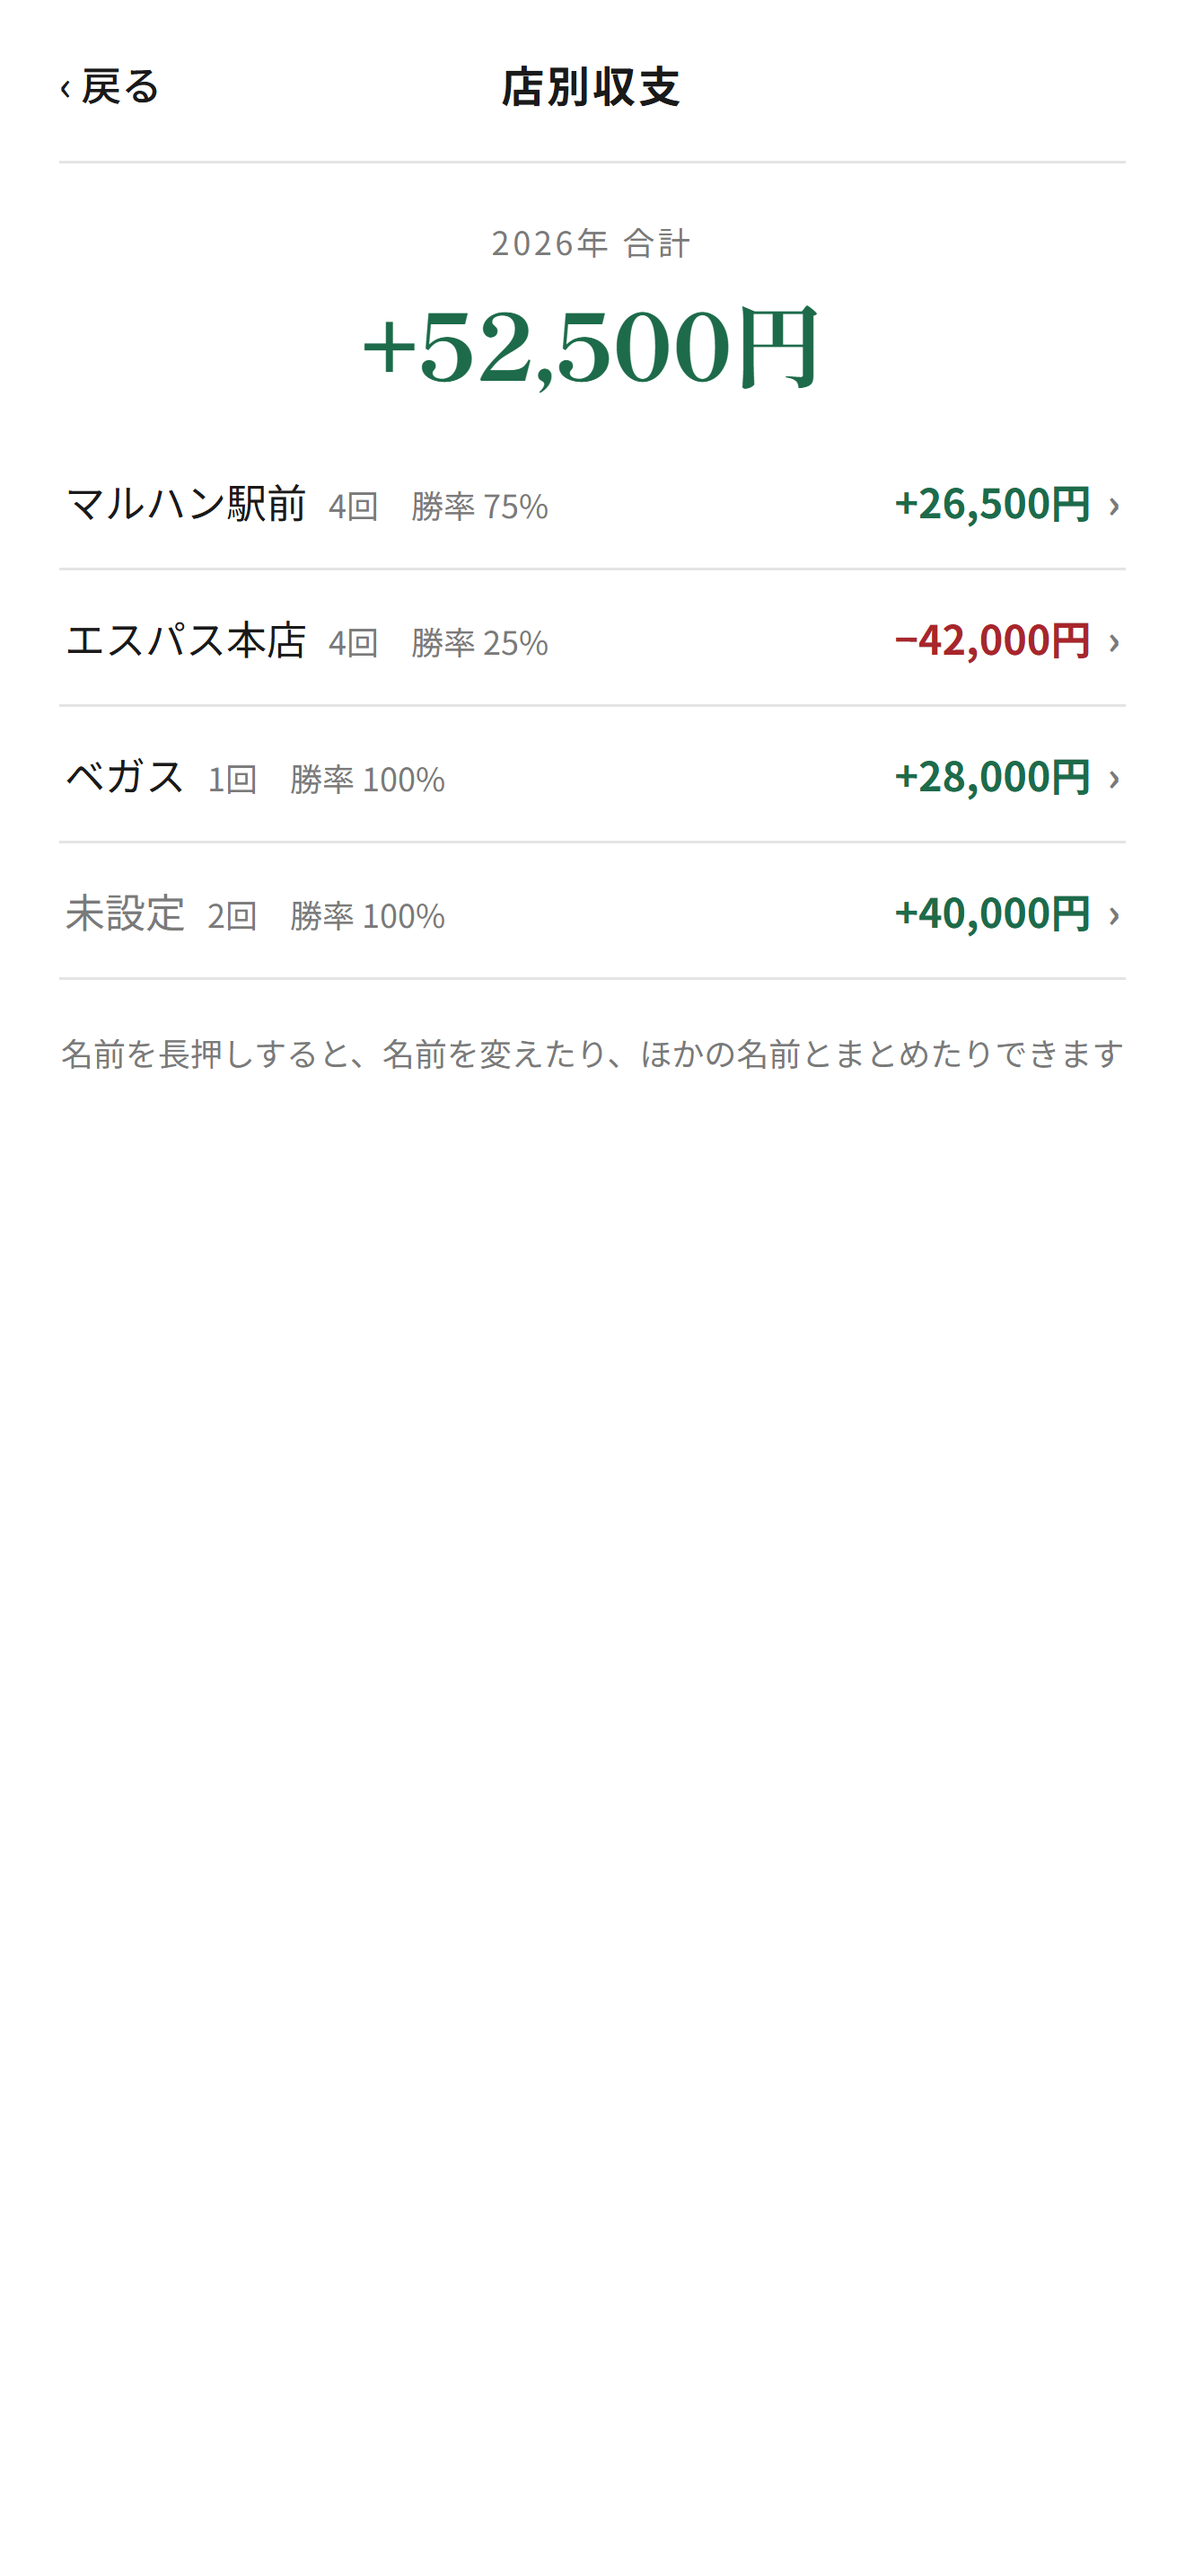
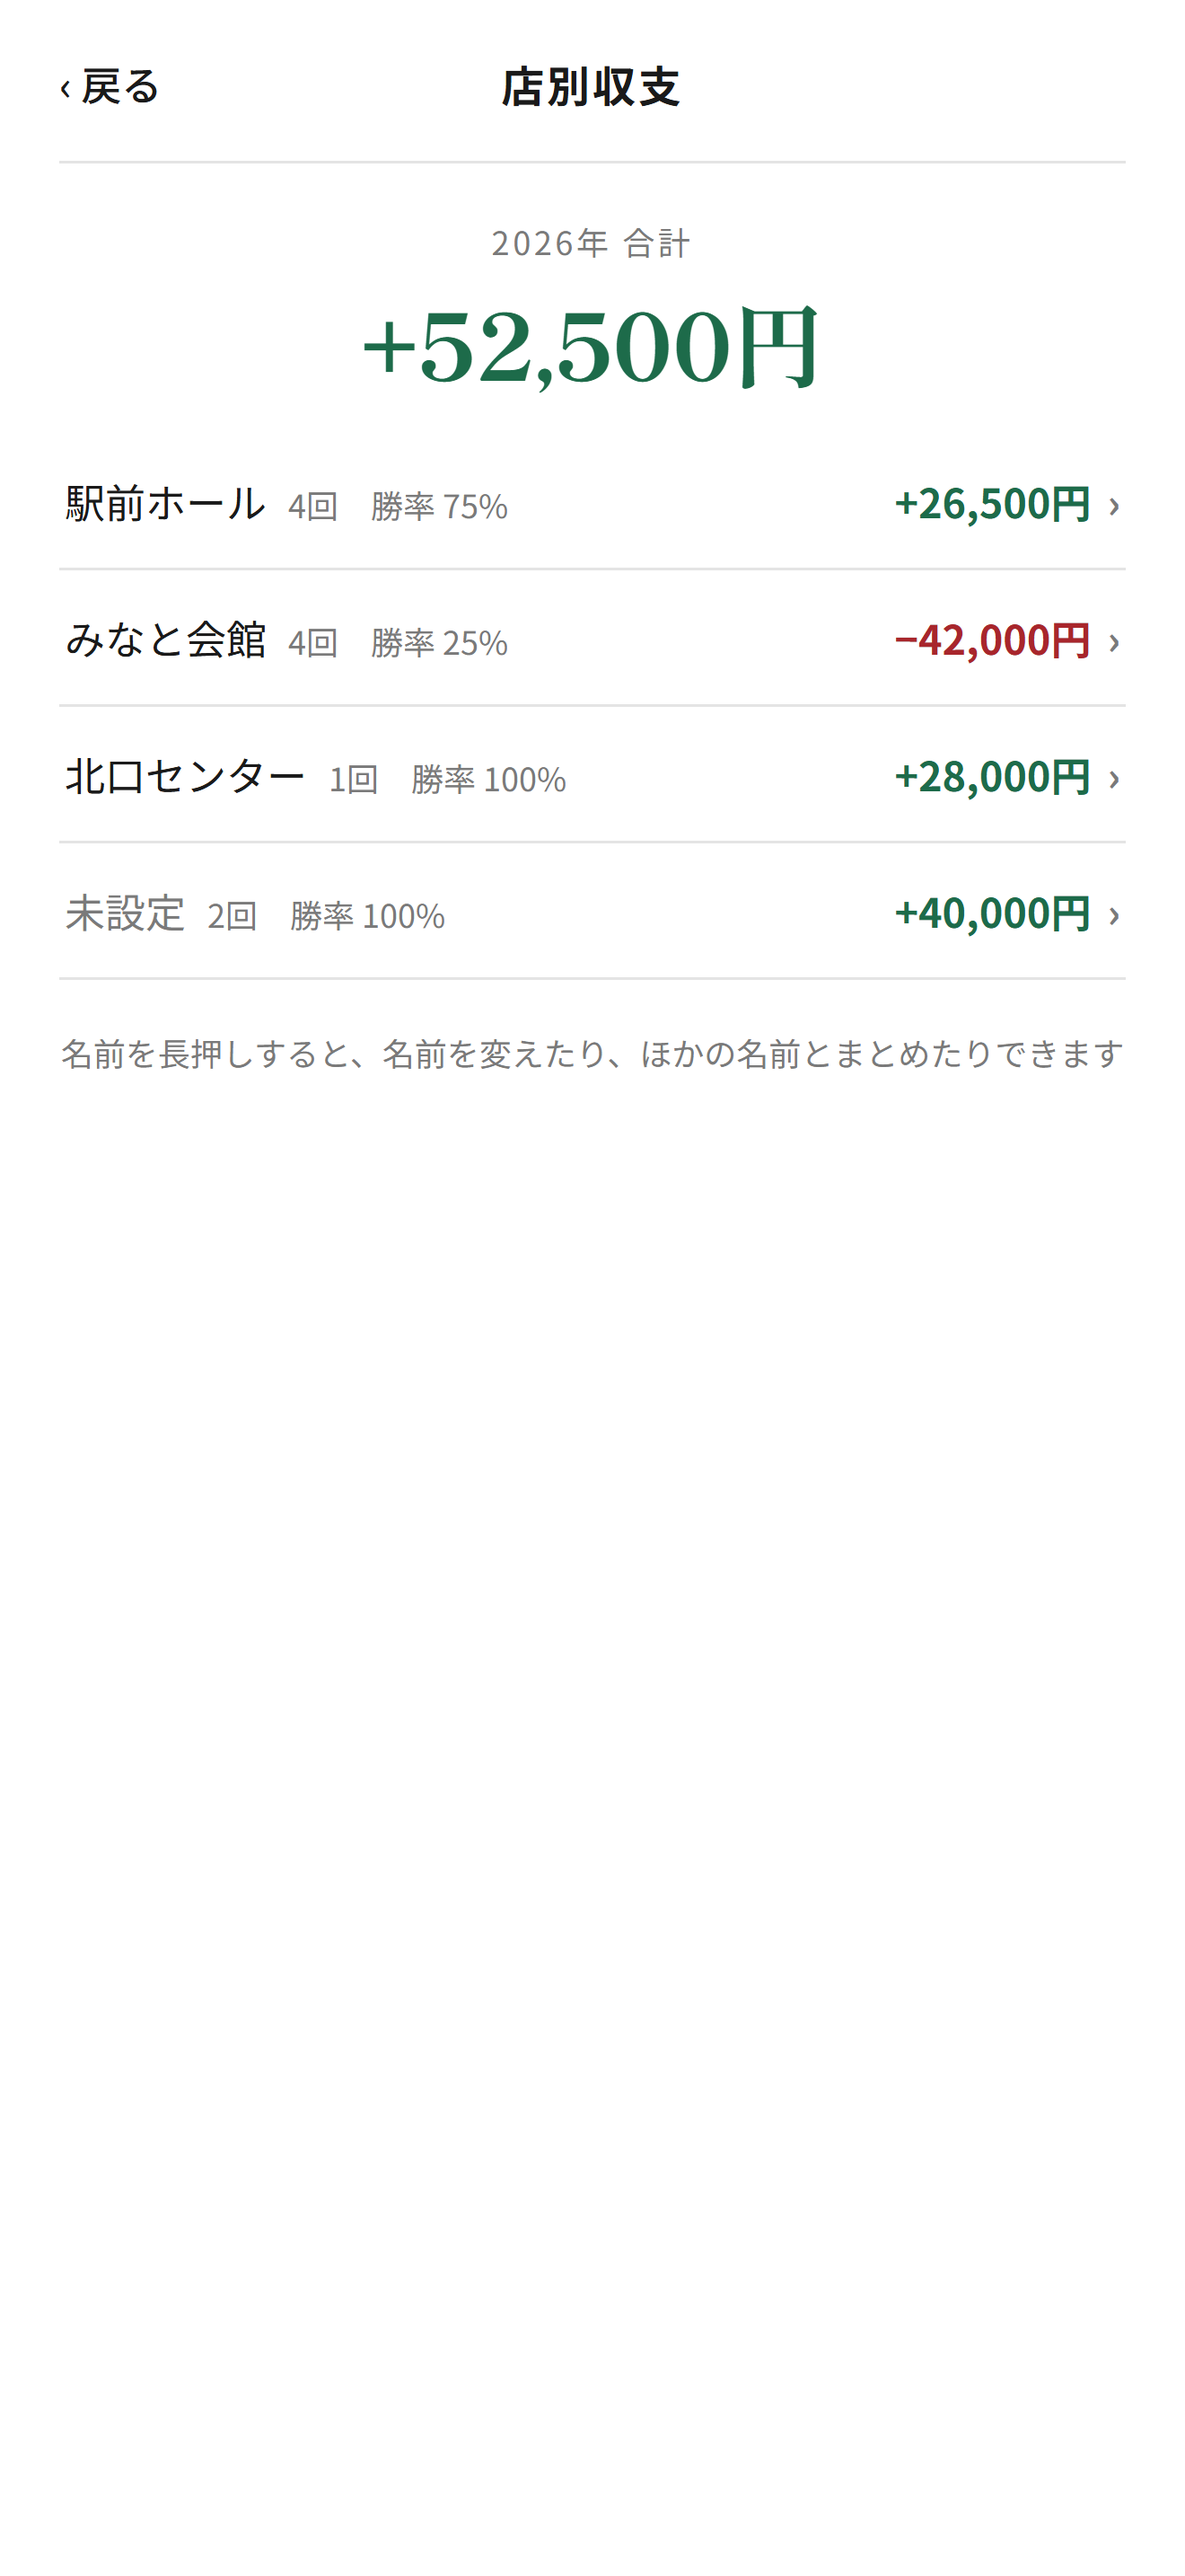
App Store のスクリーンショットを架空の店名・機種名で撮り直した
実在の店名（マルハン・エスパス・ベガス）と他社の機種名が写っていたため、
見本データを架空の名前に変え、本番の画面で 6.9 / 6.3 インチの8枚を撮り直した。

Changed region(s): [[0.0621, 0.1862, 0.4659, 0.3103]]

diff --git a/HANDOFF.md b/HANDOFF.md
@@ -56,7 +56,7 @@
     1. App Store Small Business Program に申し込む（手数料15%。ユーザーが自分で）
     2. 審査に出すとき：課金項目に審査用スクリーンショット（買うボタンの画面）を載せて「審査用に追加」→ 1.1.0 と一緒に提出（本物の広告＝production オン で組み立て直す）
     3. （任意）機内モードで起動して、買った人に広告が出ないか
-- **スクリーンショットの撮り直し**（2026-10-10 のリーガルチェックで見つかった。初回の審査はそのまま出した）
+- ~~スクリーンショットの撮り直し~~ 済み（2026-10-16）。架空の店名・機種名で `docs/screenshots/` と `6.3/` の8枚を撮り直した。**1.1.0 を出すときに App Store Connect の画像を差し替える**
   - 今の画像に実在の店名（マルハン・エスパス）と他社の機種名（北斗・東京喰種・牙狼・エヴァ・海物語）が写っている。App Store の審査で落ちたり苦情が来たりするおそれがある
   - `mockups/seed.js` などの見本データを架空の名前（例：駅前ホール・海の物語）に変えて、`docs/screenshots/` と `docs/screenshots/6.3/` を撮り直す
   - 初回の審査で 5.2（他社の権利）などを理由に落ちたら、このアップデートを待たずにすぐやる
